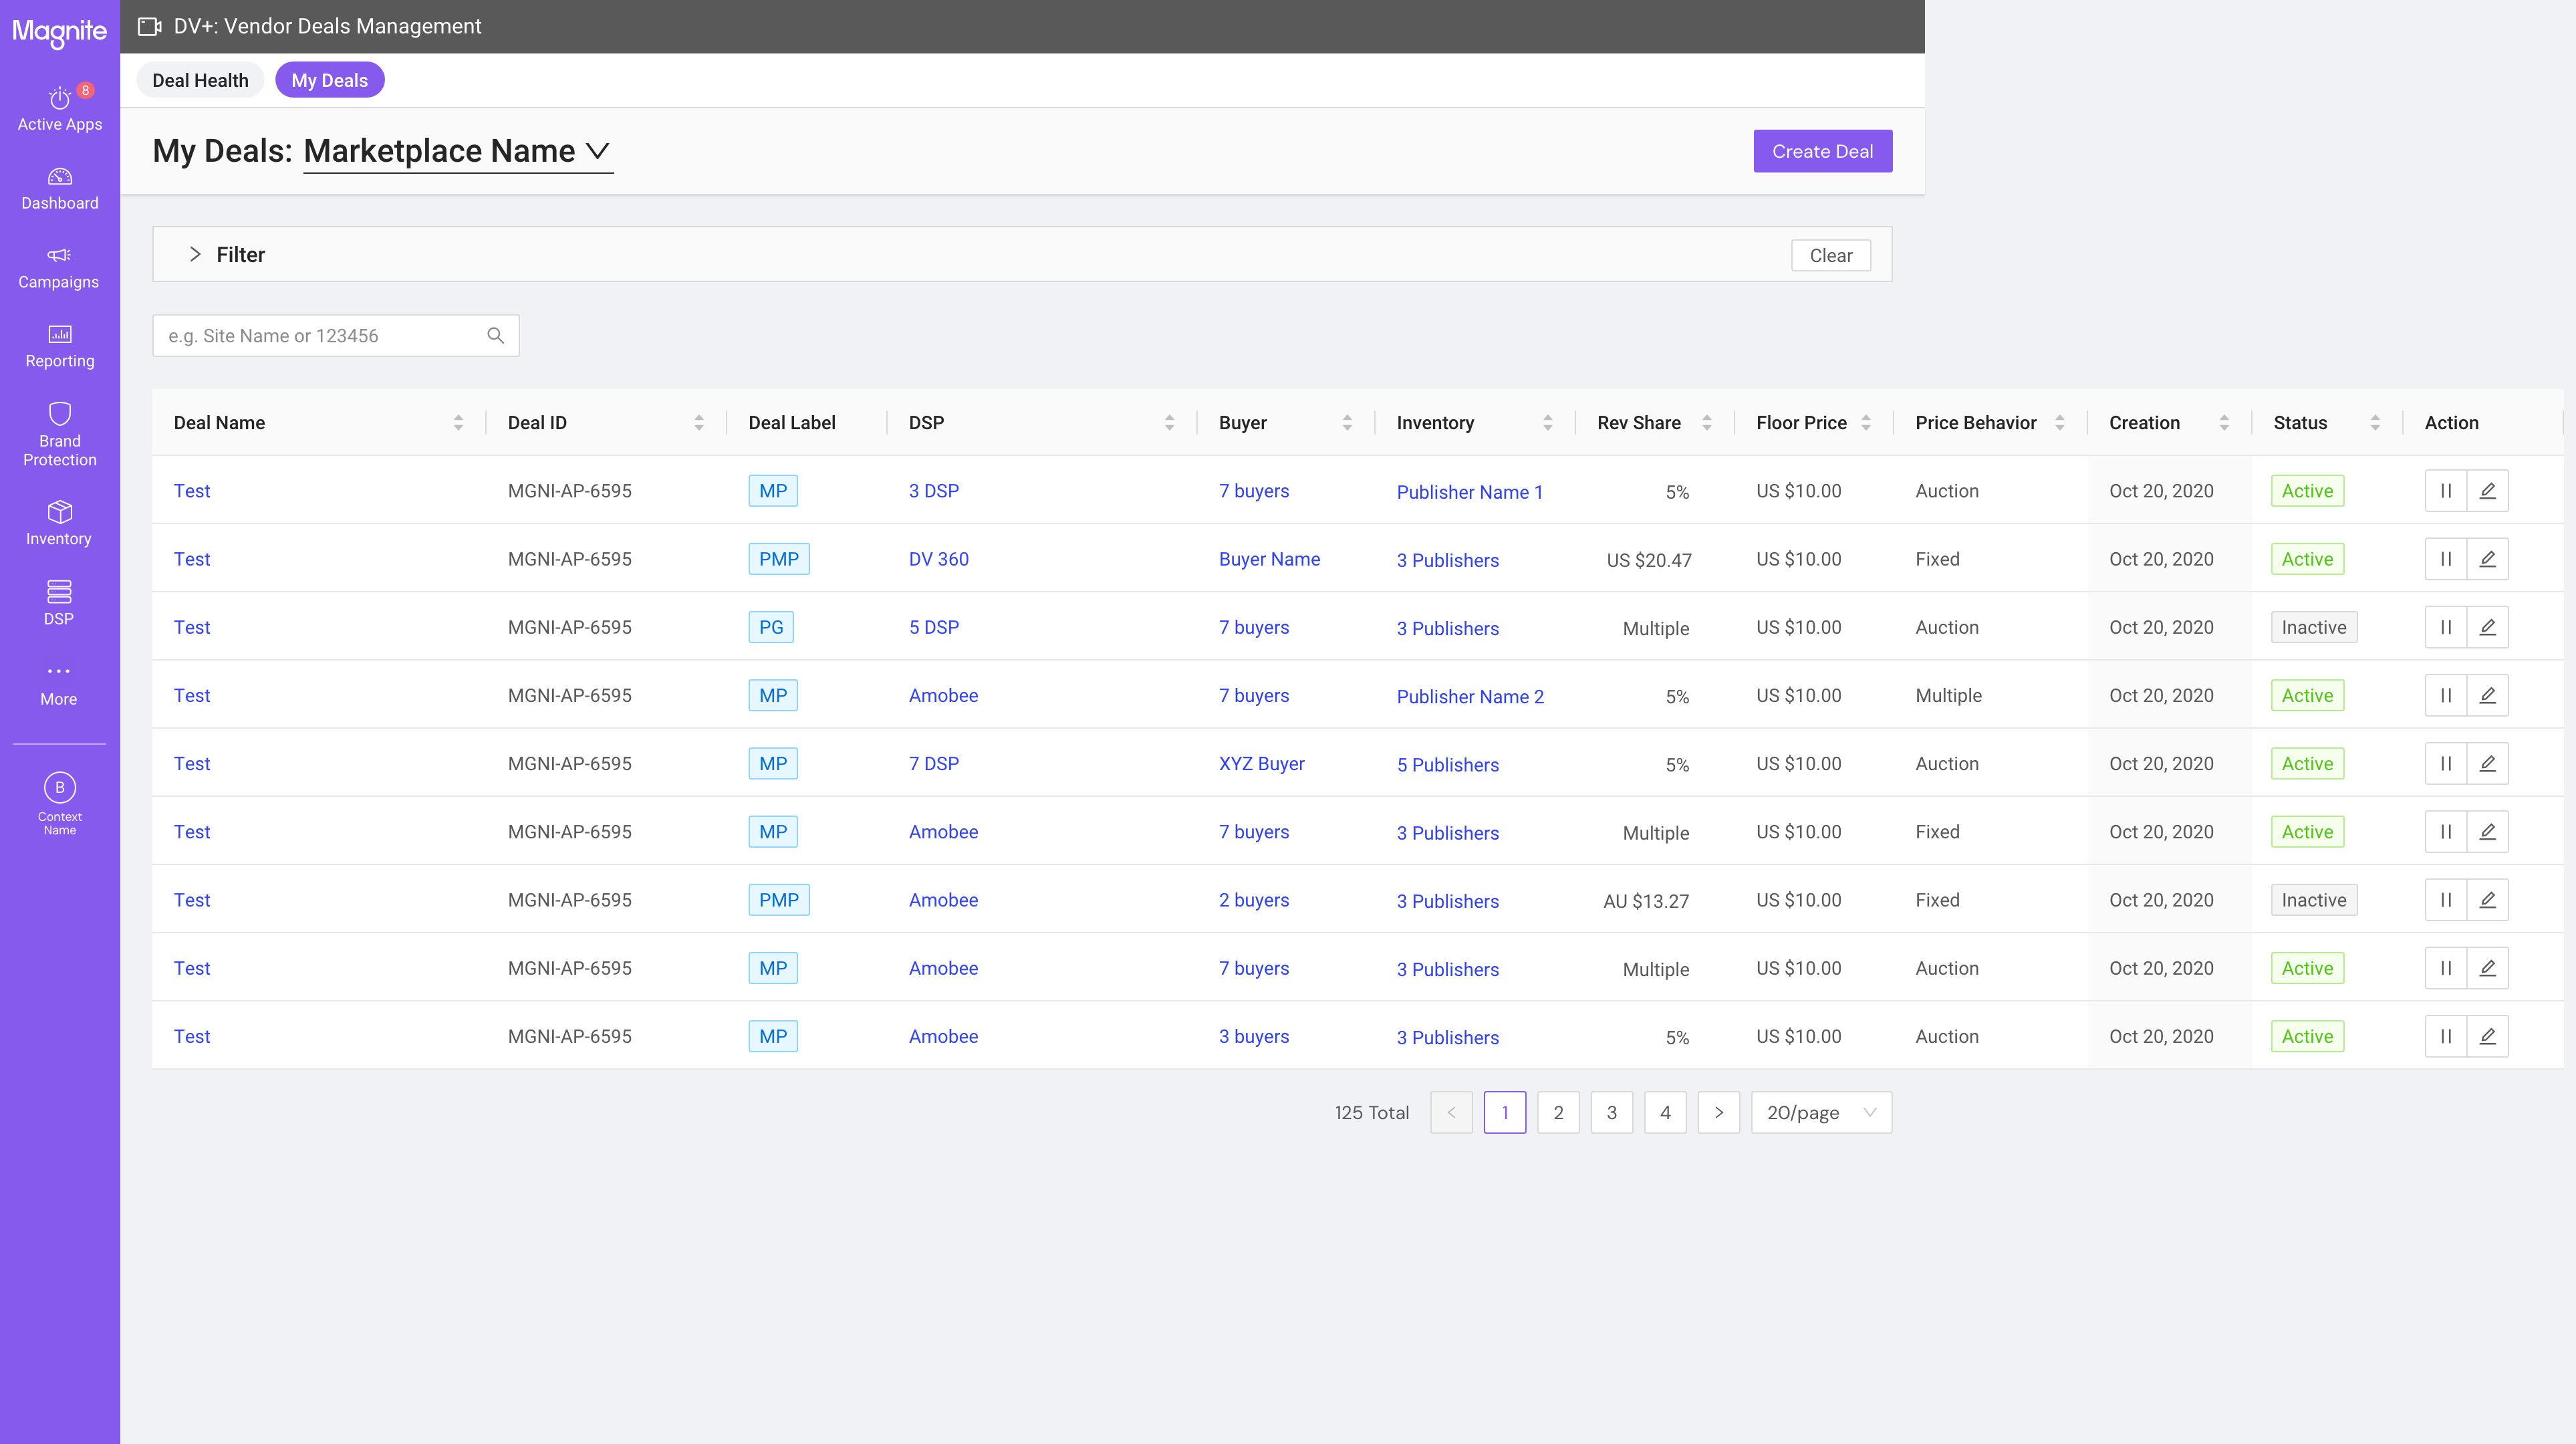
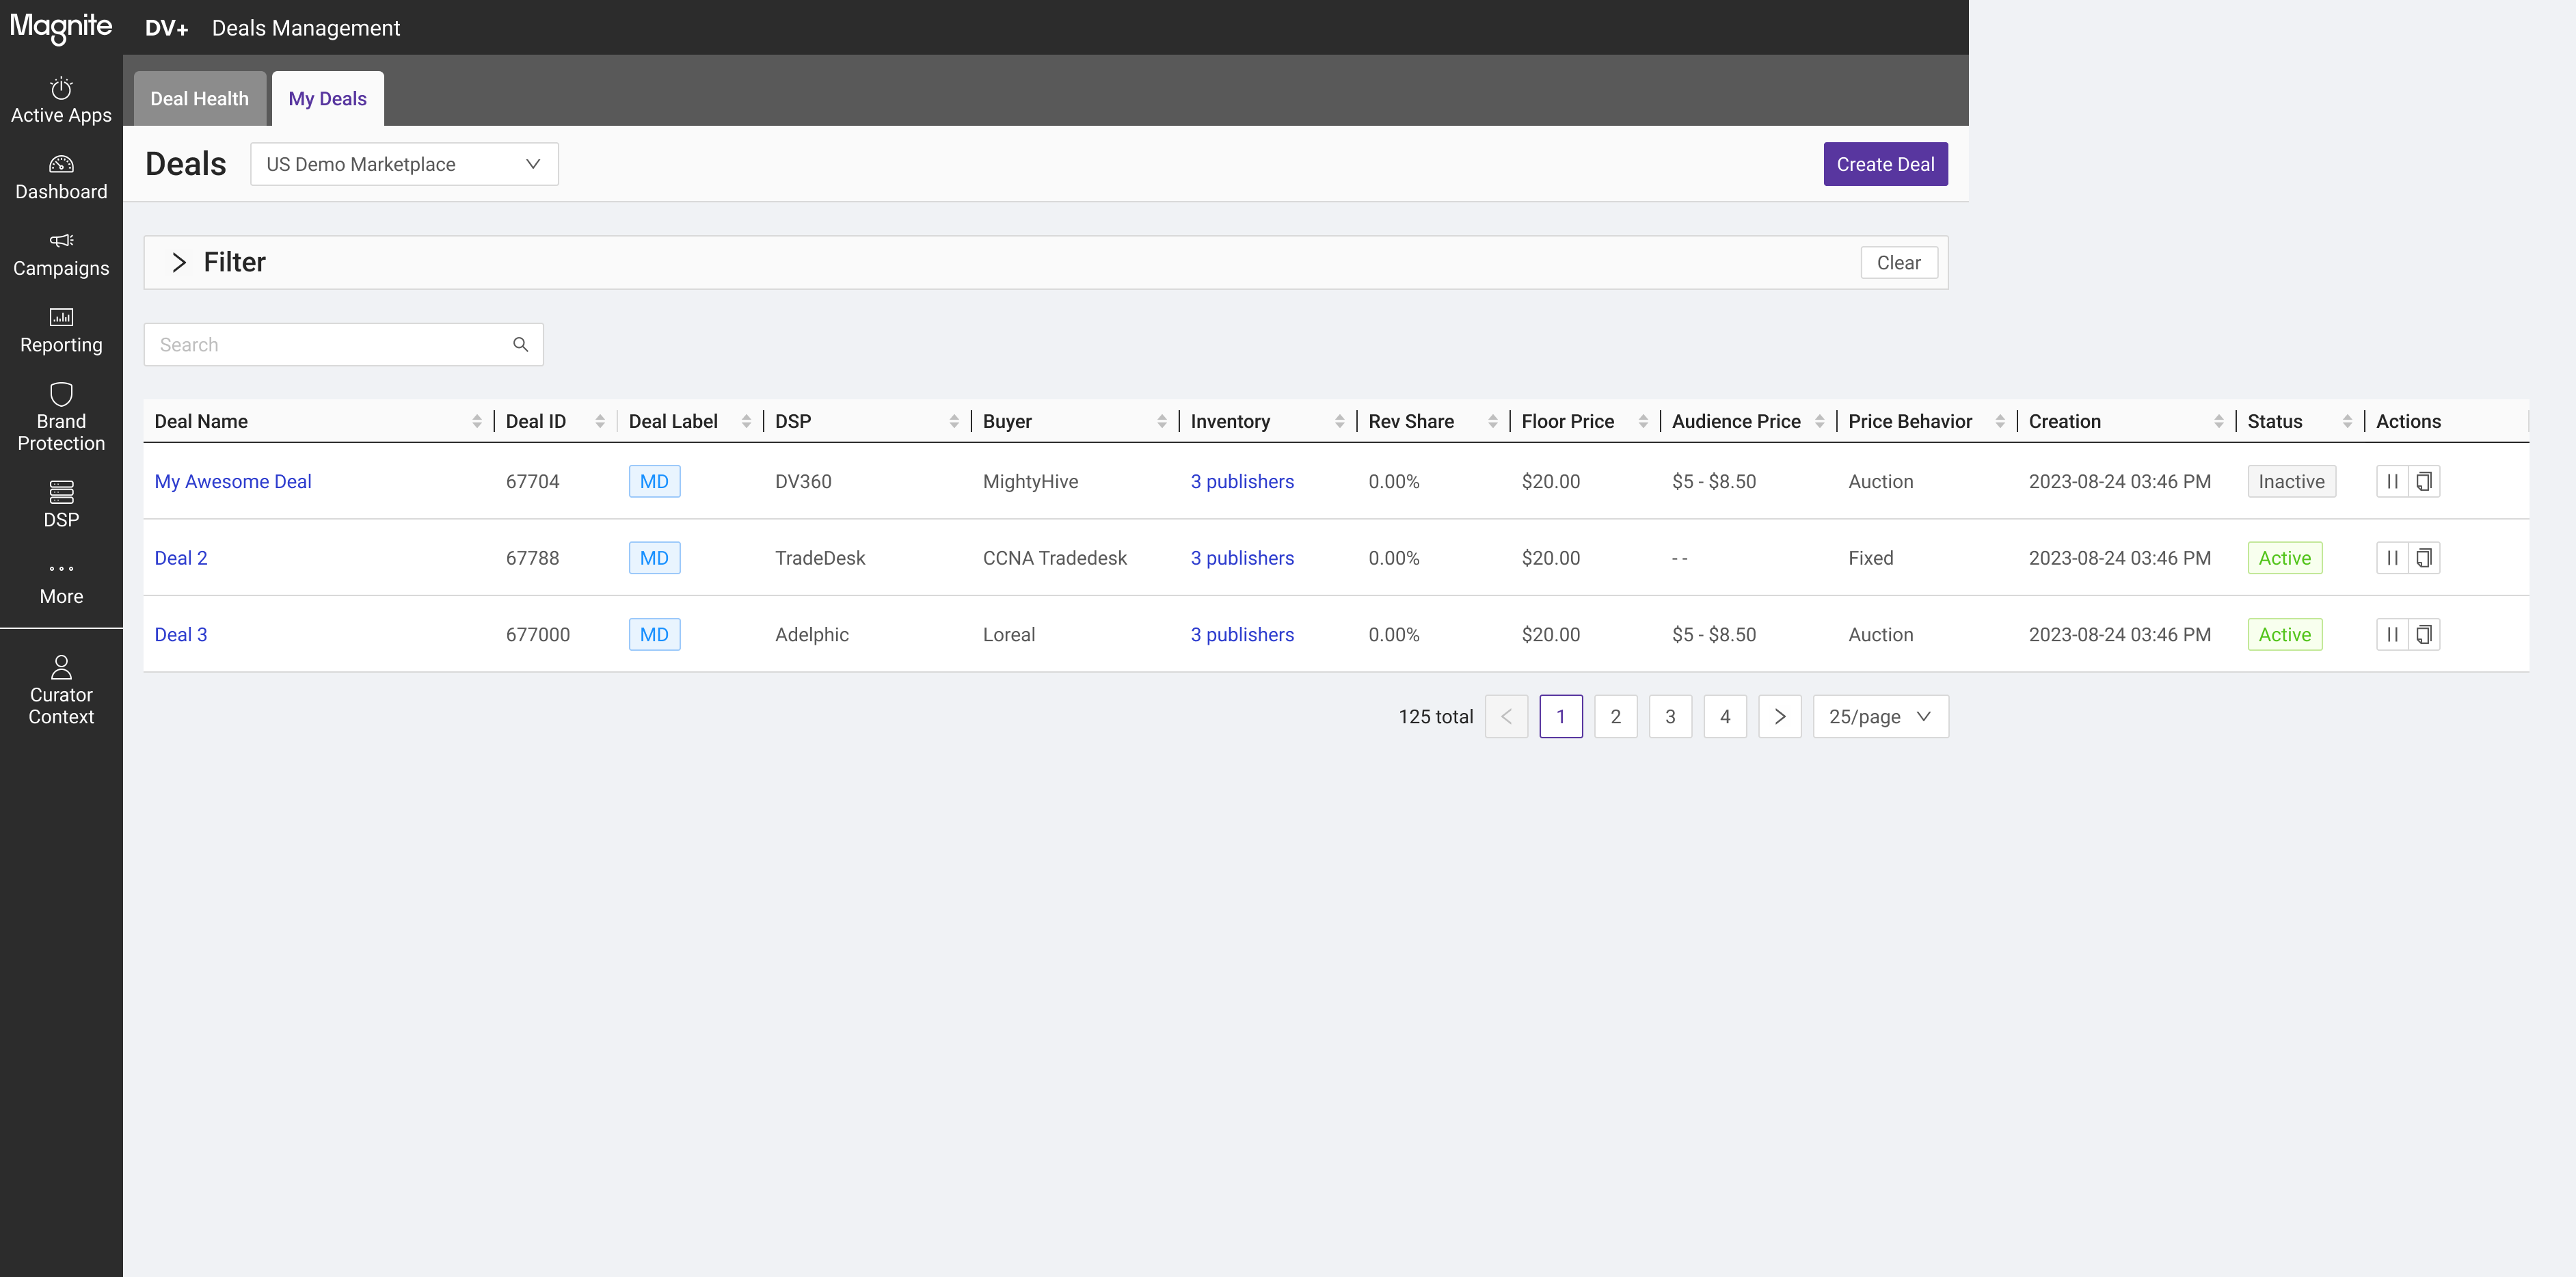
Add missing dm-02 screenshot and update dm-04 deals listing image
Adds the Cycle 2 annotated screenshot referenced by the iteration
comparison (was missing, causing a broken image), updates the
Cycle 3 shipped screenshot, and adjusts the comparison grid columns
(0.88fr 1fr) so both images render at matching heights given the
new image's wider aspect ratio.

diff --git a/deal-management.html b/deal-management.html
@@ -212,7 +212,7 @@
       </div>
 
       <div class="cs-img">
-        <div style="display:grid;grid-template-columns:1fr 1fr;gap:20px;">
+        <div style="display:grid;grid-template-columns:0.88fr 1fr;gap:20px;align-items:start;">
           <div>
             <img src="img/deal-management/dm-02-deals-listing.png" alt="Deals Listing — iteration version with design annotation badge">
             <p style="font-size:12px;color:#888;margin-top:8px;text-align:center;">Cycle 2 — annotated for team review</p>